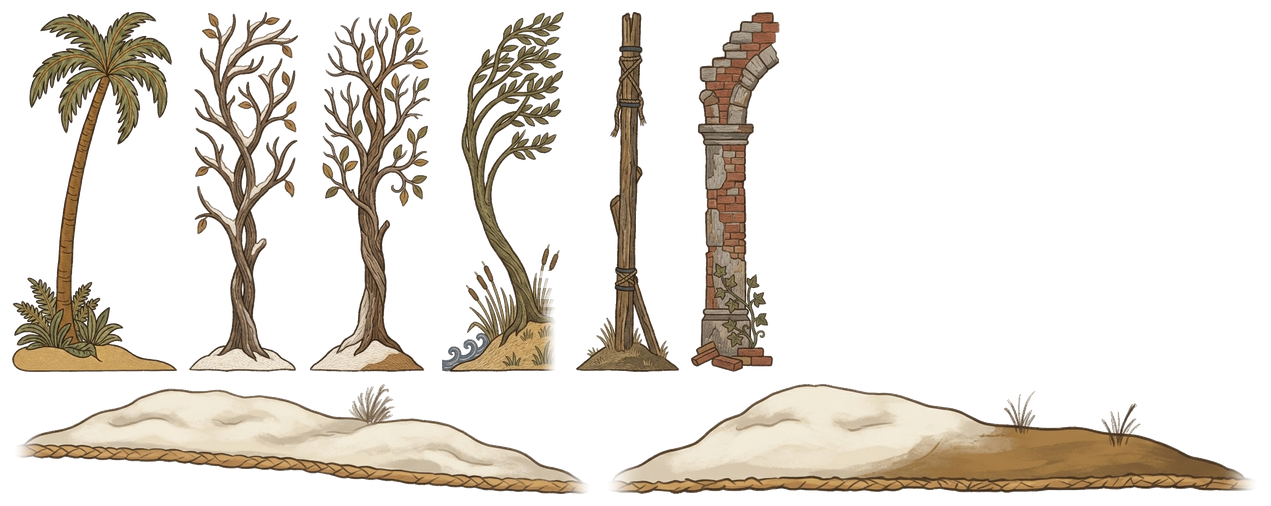
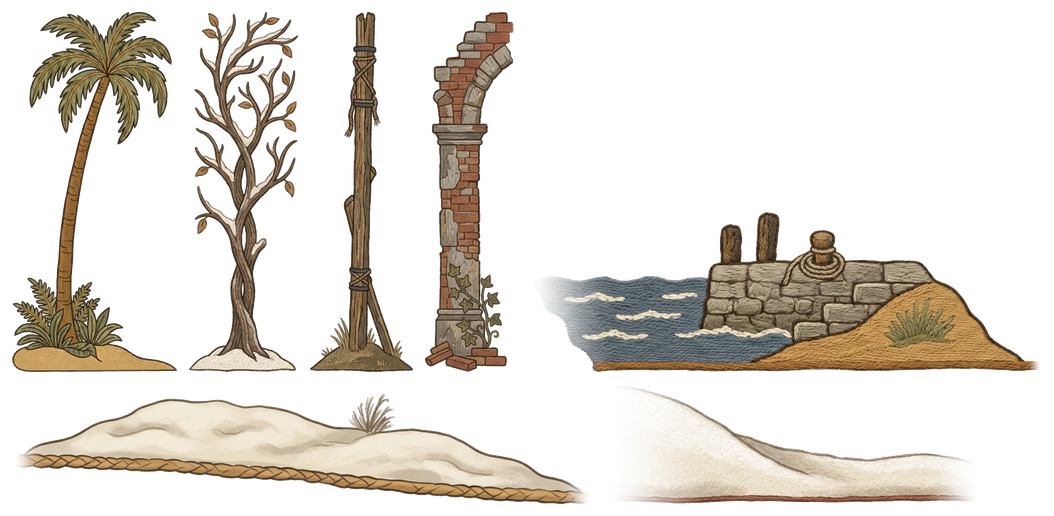
Refine Tapestry #5 snowdrift slope and #6 harbour quay transitions

diff --git a/src/tapestryBoundaries.js b/src/tapestryBoundaries.js
@@ -6,16 +6,15 @@
 export const BOUNDARY_DIVIDER_ATLAS = 'images/tapestry/bayeux-boundary-dividers-threads.webp';
 
 // Exact [x, y, width, height] crop boxes inside bayeux-boundary-dividers-threads.webp
-// (1271x506 RGBA transparent wool-thread sprite sheet).
+// (1054x516 RGBA transparent wool-thread sprite sheet).
 export const DIVIDER_CROPS = {
   'palm-shore': [12, 12, 165, 360],
   'winter-tree': [189, 12, 109, 360],
-  'winter-to-field': [310, 12, 120, 360],
-  'coastal-shore': [442, 12, 122, 360],
-  'trench-post': [576, 12, 103, 360],
-  'ruined-pier': [691, 12, 89, 360],
-  'snow-bridge-down': [12, 384, 581, 110],
-  'snow-to-earth-bridge': [605, 384, 654, 110]
+  'trench-post': [310, 12, 103, 360],
+  'ruined-pier': [425, 12, 89, 360],
+  'harbour-quay': [526, 212, 516, 160],
+  'snow-bridge-down': [12, 394, 581, 110],
+  'snow-slope-single': [605, 384, 376, 120]
 };
 
 // Per-join visual tuning across all 11 panel-to-panel joins of storyPanels.
@@ -57,27 +56,27 @@ export const PANEL_BOUNDARIES = {
     rightGround: 0.995
   },
   'early-3->middle-0': {
-    motif: 'snow-to-earth-bridge',
+    motif: 'snow-slope-single',
     label: '1700 · Existing Winter Tree → War of the Spanish Succession',
-    leftFeather: 0.13,
-    rightFeather: 0.06,
-    featherTopFrac: 0.56,
-    heightScale: 0.145,
-    widthScale: 0.72,
-    centerBias: -0.07,
+    leftFeather: 0.04,
+    rightFeather: 0.025,
+    featherTopFrac: 0.68,
+    heightScale: 0.175,
+    widthScale: 0.54,
+    centerBias: -0.03,
     flip: false,
     leftGround: 0.995,
     rightGround: 0.995
   },
   'middle-0->middle-1': {
-    motif: 'snow-to-earth-bridge',
+    motif: 'snow-slope-single',
     label: '1740 · Existing Winter Tree & Stream → Seven Years’ War',
-    leftFeather: 0.14,
-    rightFeather: 0.05,
-    featherTopFrac: 0.56,
-    heightScale: 0.145,
-    widthScale: 0.72,
-    centerBias: -0.06,
+    leftFeather: 0.055,
+    rightFeather: 0.02,
+    featherTopFrac: 0.60,
+    heightScale: 0.22,
+    widthScale: 0.44,
+    centerBias: -0.045,
     flip: false,
     leftGround: 0.995,
     rightGround: 0.985
@@ -105,15 +104,17 @@ export const PANEL_BOUNDARIES = {
     rightGround: 0.986
   },
   'middle-3->modern-0': {
-    motif: 'coastal-shore',
+    motif: 'harbour-quay',
     label: '1870 · Atlantic Ship → Harvest & Plough',
-    leftFeather: 0.17,
-    rightFeather: 0.05,
-    heightScale: 0.94,
-    centerBias: -0.07,
+    leftFeather: 0.14,
+    rightFeather: 0.025,
+    featherTopFrac: 0.62,
+    heightScale: 0.41,
+    widthScale: 0.51,
+    centerBias: -0.175,
     flip: false,
-    leftGround: 0.988,
-    rightGround: 0.978
+    leftGround: 0.992,
+    rightGround: 0.985
   },
   'modern-0->modern-1': {
     motif: 'trench-post',
